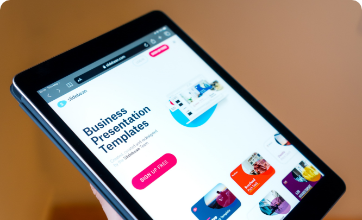
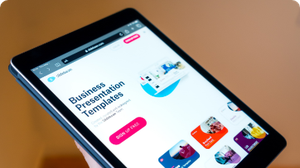
Schimbare dimensiune poze-card , adaugare box-shadow carduri mici

diff --git a/SkillSwaps/Content/assets/css/style.css b/SkillSwaps/Content/assets/css/style.css
@@ -44,6 +44,13 @@
     color: #C86FFF
 }
 
+.webkit-line {
+    display: -webkit-box;
+    -webkit-box-orient: vertical;
+    -webkit-line-clamp:8;
+    overflow: hidden;
+}
+
 .boxed-btn {
     background: #fff;
     color: #C86FFF !important;
@@ -4043,7 +4050,8 @@ hr {
     -webkit-transition: .4s;
     -moz-transition: .4s;
     -o-transition: .4s;
-    transition: .4s
+    transition: .4s;
+    max-height:55em;
 }
 
     .courses-area .properties__card:hover {
@@ -4303,7 +4311,7 @@ hr {
 
     .services-area .single-services {
         display: flex;
-        box-shadow: 0px 25px 60px rgba(66,85,164,0.06);
+        box-shadow: 0px 25px 60px rgba(66,85,164,0.60);
         padding: 29px 24px;
         border-radius: 20px;
         background: #fff
